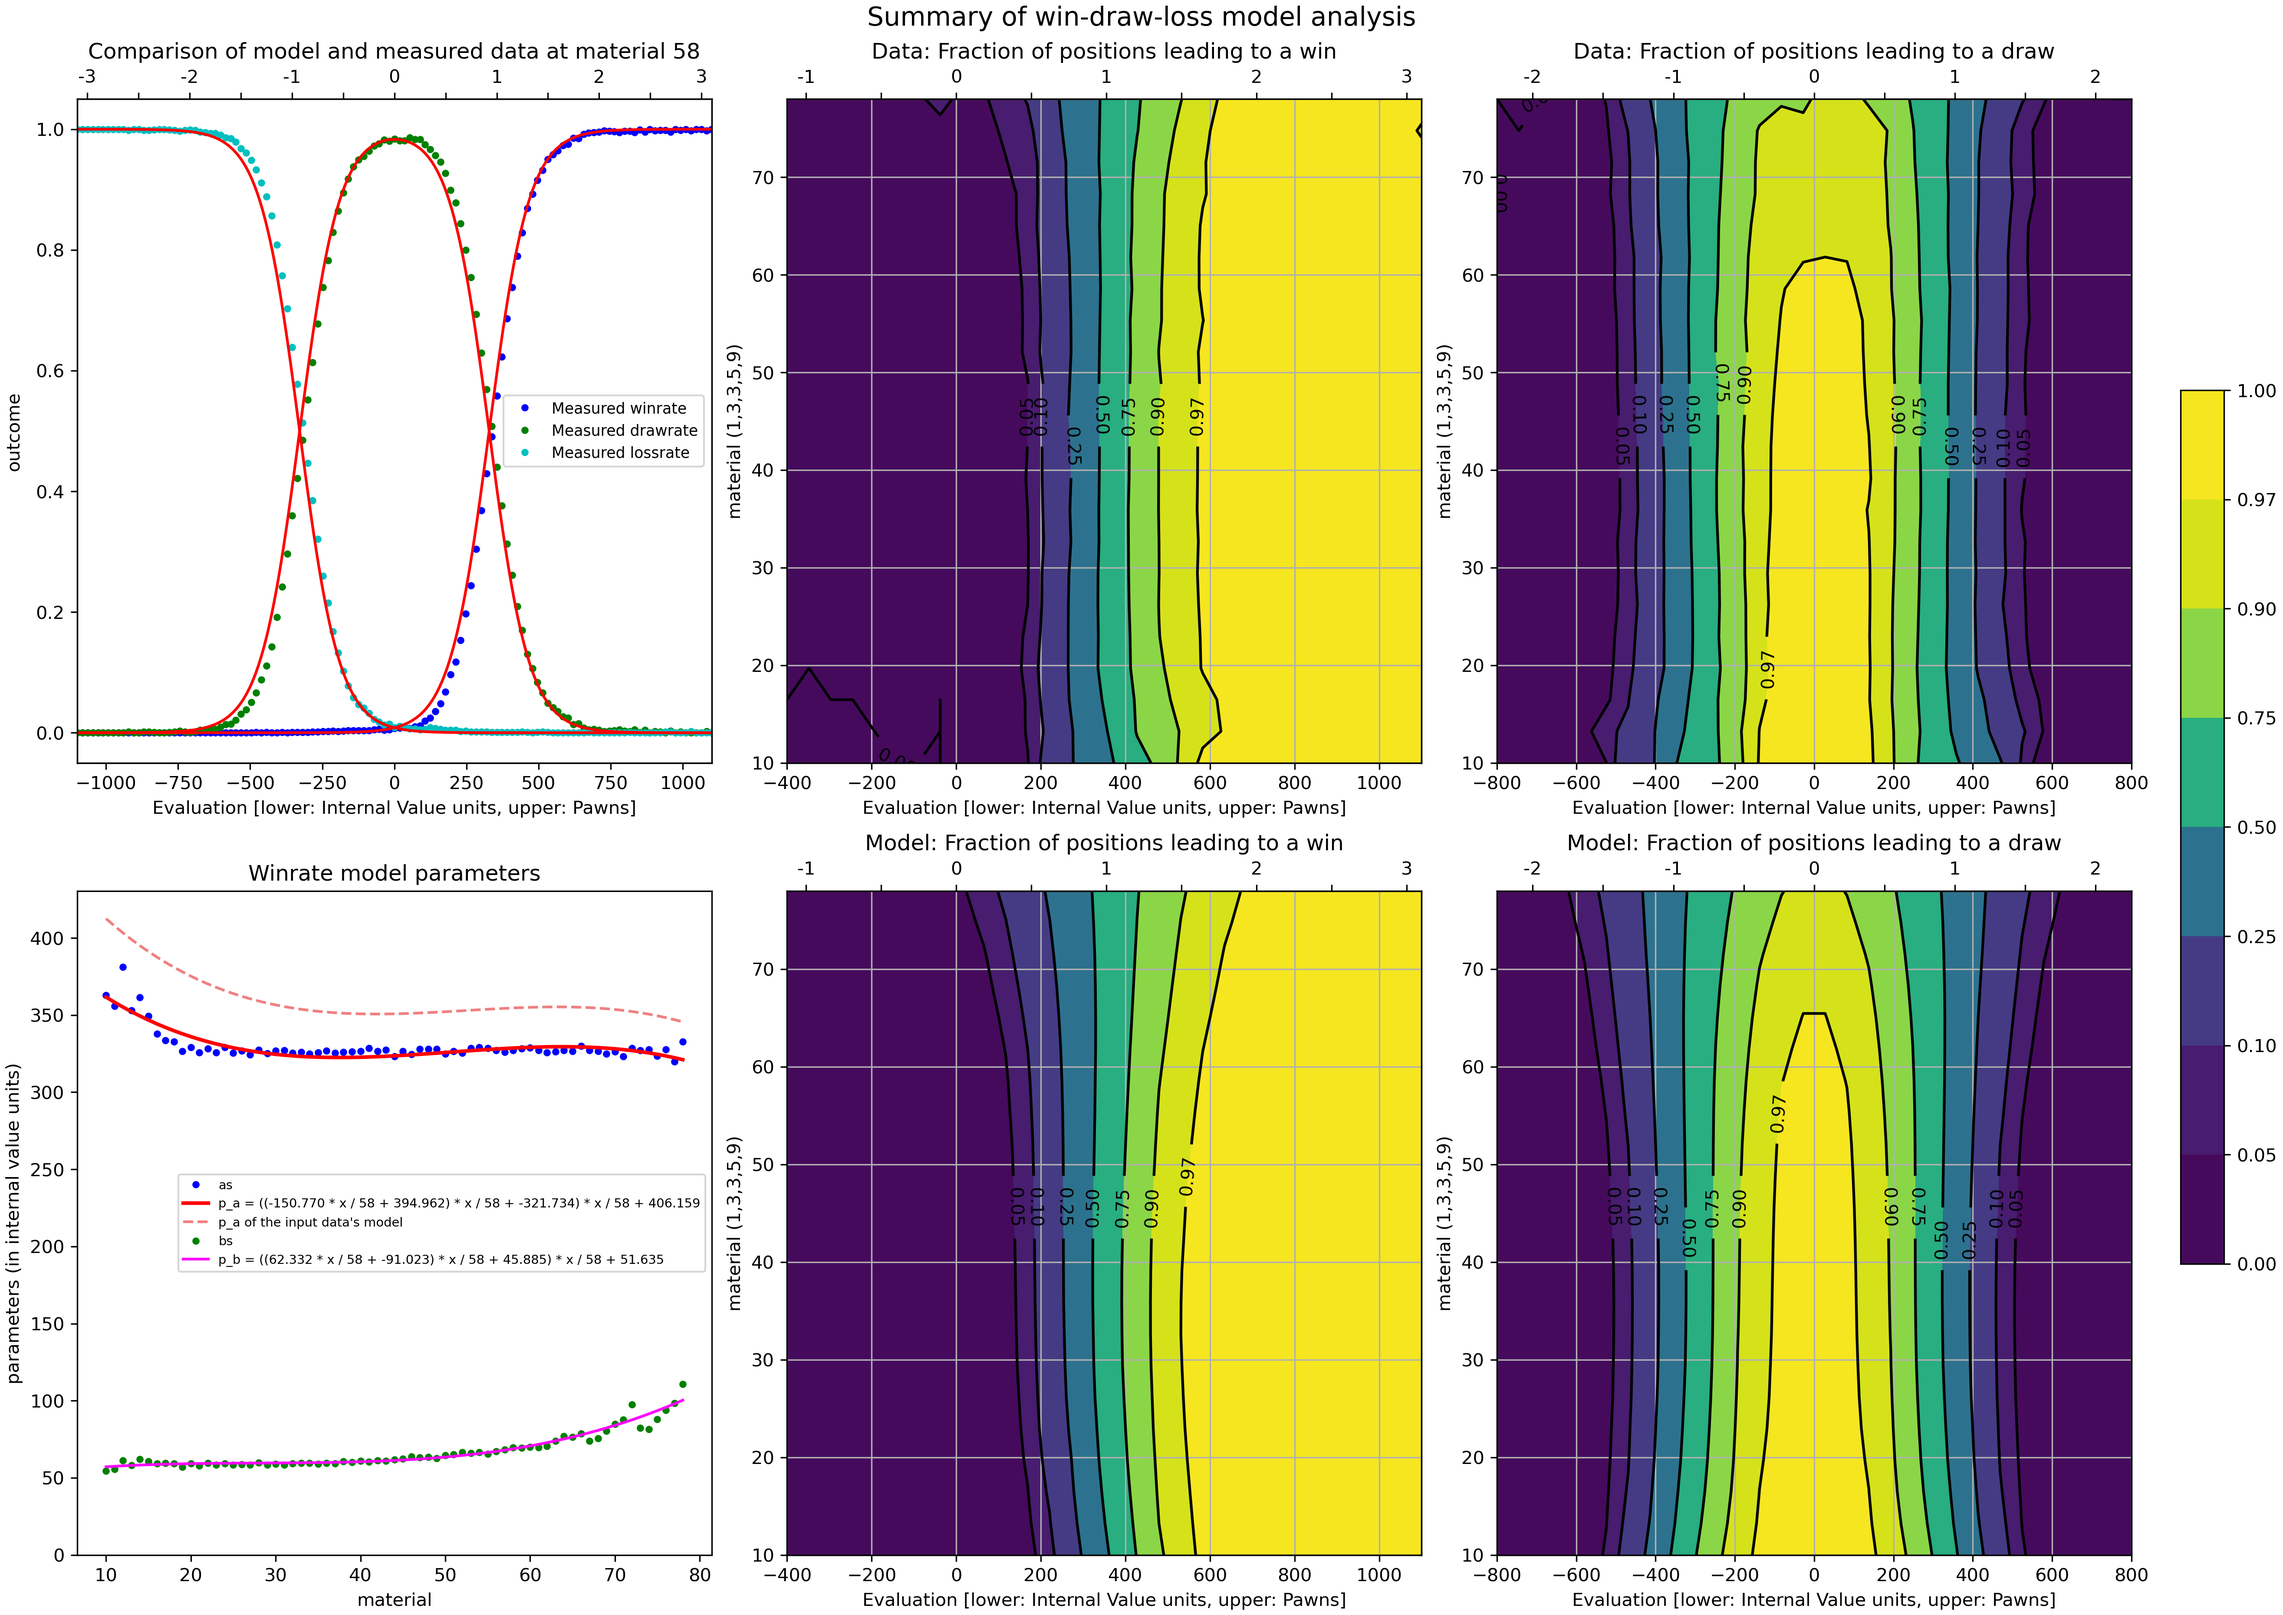
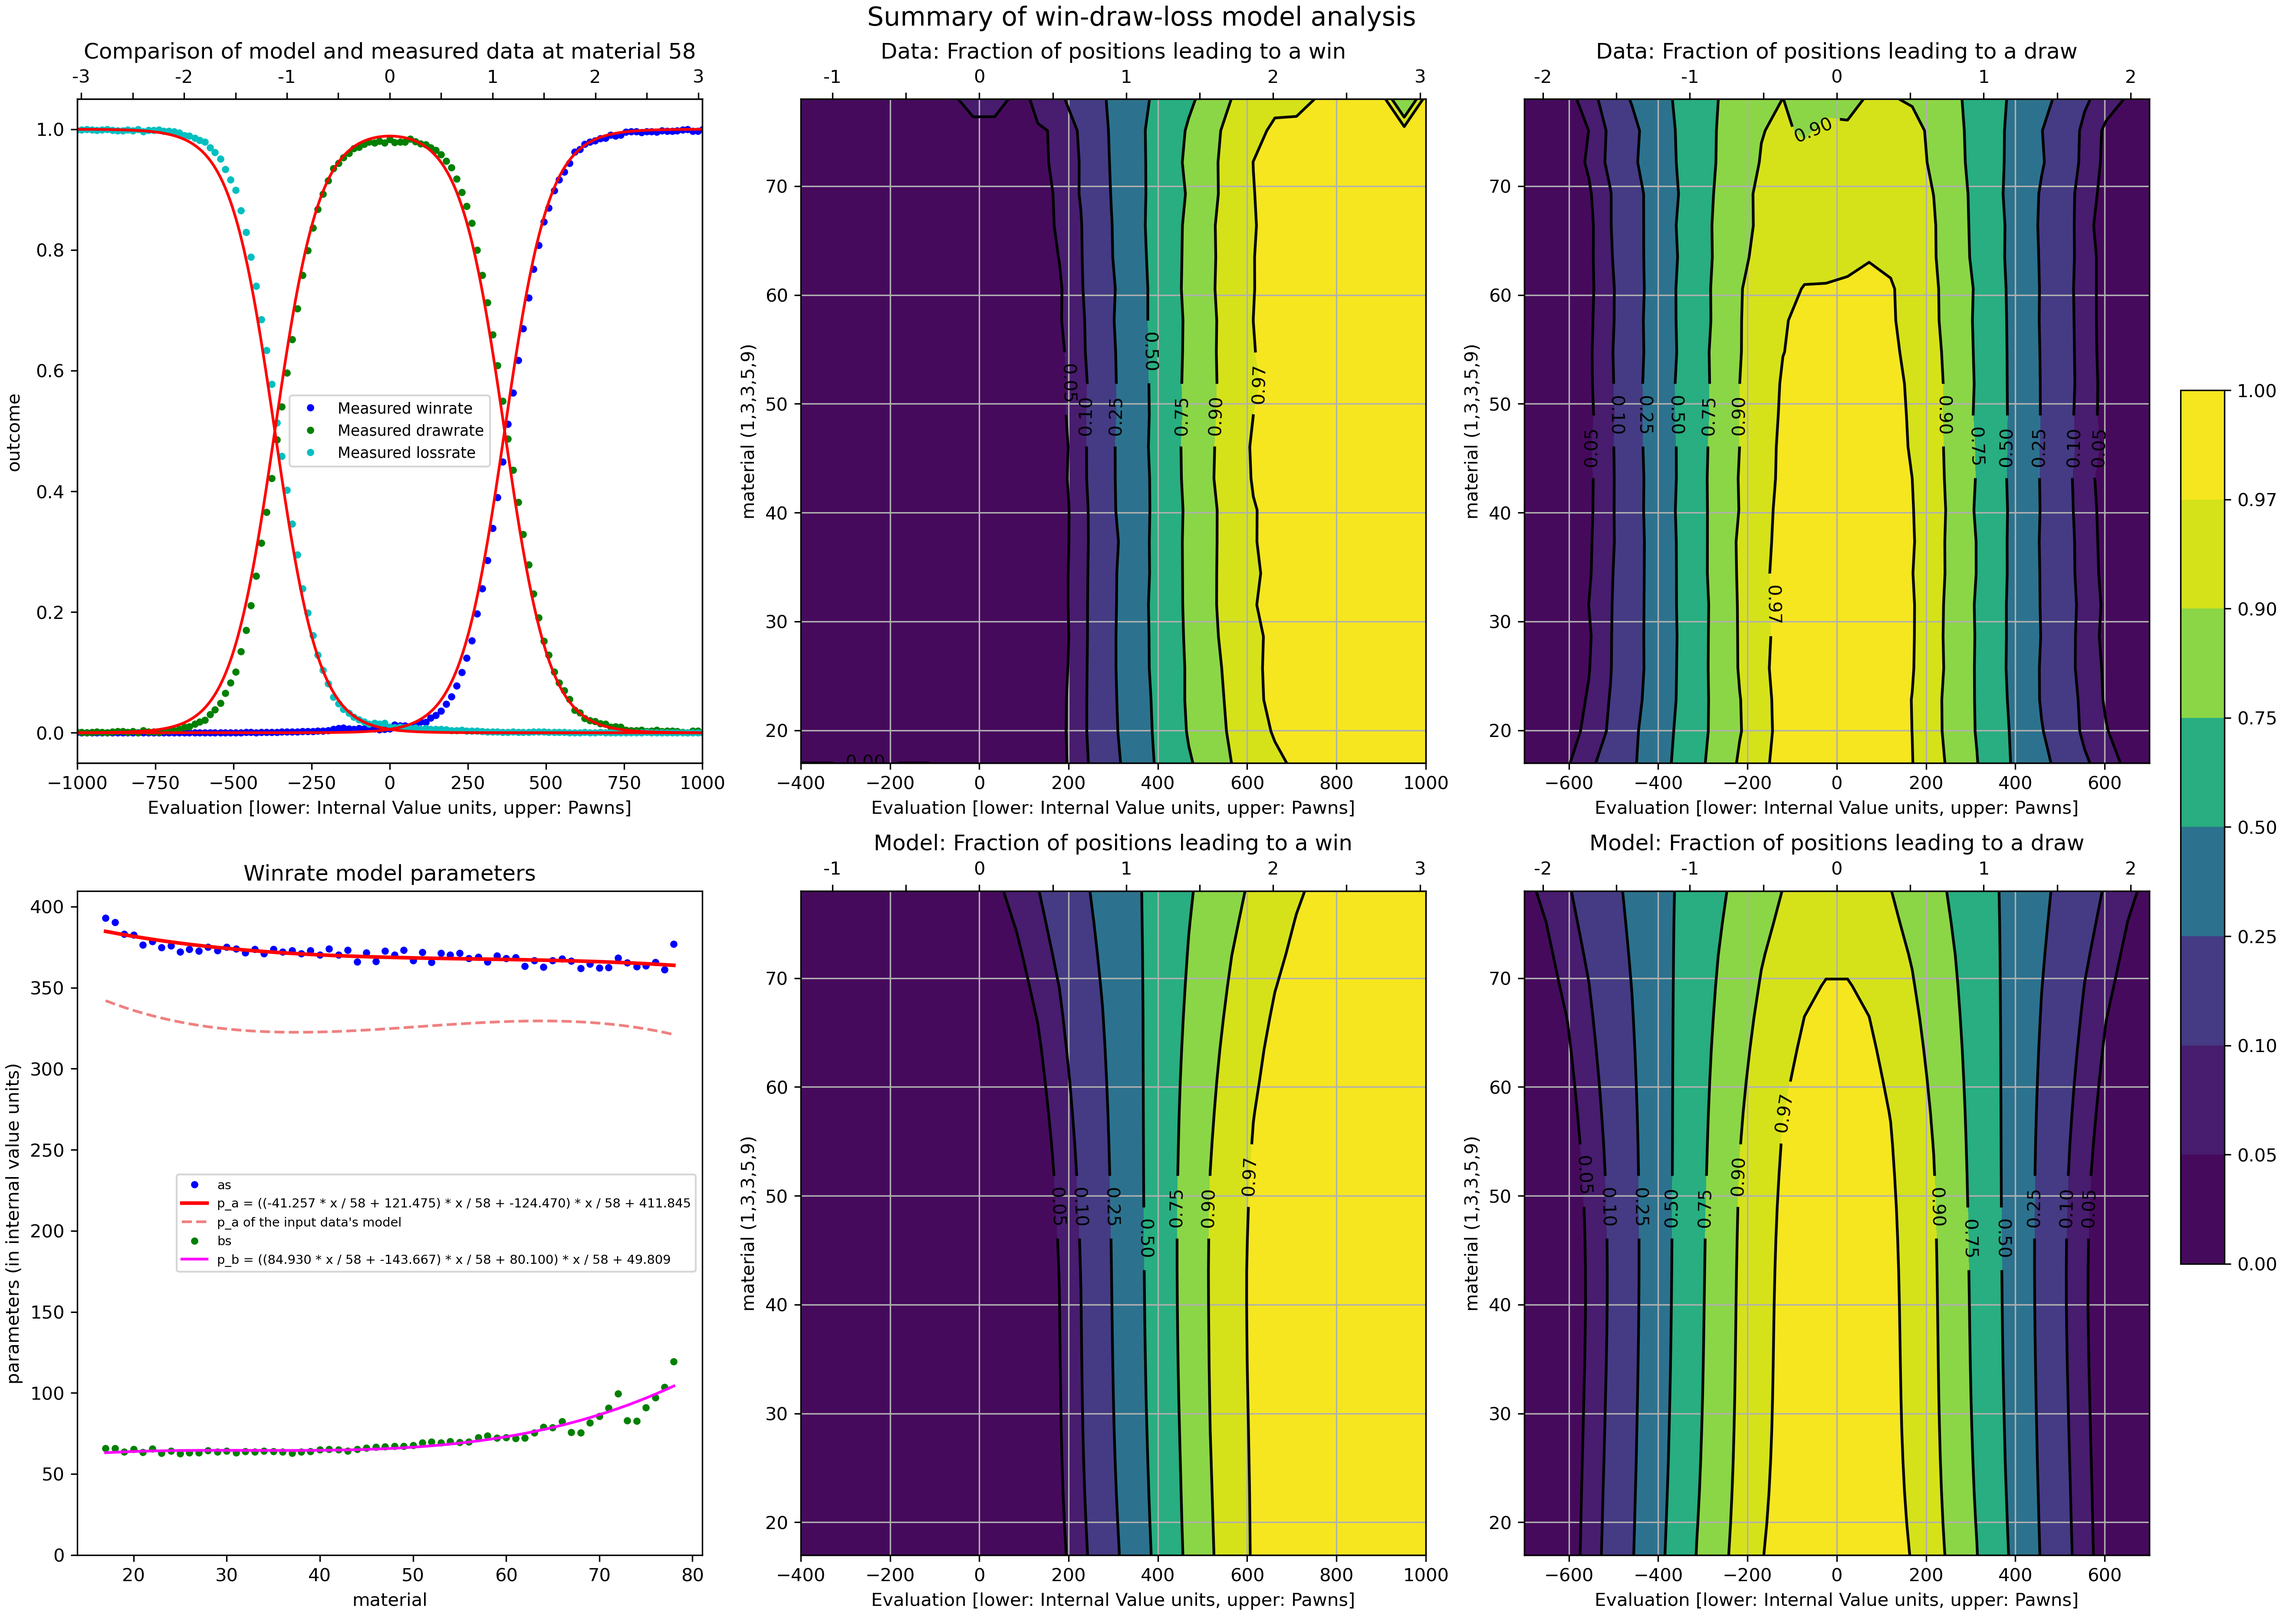
reflect the WDL model update in Stockfish

diff --git a/scoreWDL.py b/scoreWDL.py
@@ -710,7 +710,7 @@ if __name__ == "__main__":
 
     if args.NormalizeToPawnValue is None:
         if args.NormalizeData is None:
-            args.NormalizeData = '{"momType": "material", "momMin": 10, "momMax": 78, "momTarget": 58, "as": [-150.77043883,394.96159472,-321.73403766,406.15850091]}'
+            args.NormalizeData = '{"momType": "material", "momMin": 17, "momMax": 78, "momTarget": 58, "as": [-41.25712052,121.47473115,-124.46958843,411.84490997]}'
     else:
         assert (
             args.NormalizeData is None
